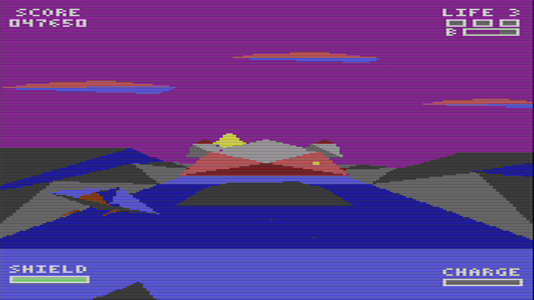
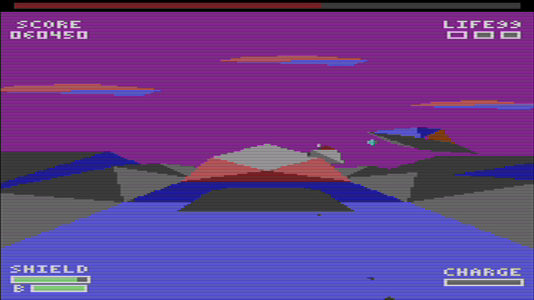
Refresh screenshots and teaser from v0.1.5 hardware footage

diff --git a/docs/hardware.md b/docs/hardware.md
@@ -830,9 +830,23 @@ The bootstrap structure was informed by the neighboring `doomc64u` repository. `
 
 ## Reproduce the README showcase
 
-### Current physical hardware capture (2026-10-24)
+### Current physical hardware capture (2026-10-26)
 
[2 lines of base64/hex data omitted]
+
+All thirteen PNGs use the exact decoded RGB crop `format=rgb24,crop=534:300:53:90:exact=1`, producing 534x300 images with square pixels. The trailer uses the same rectangle and converts it to YUV420p for video encoding. There is no scaling, stretching, retouching, color grading, scanline filtering, interpolation, or gameplay retiming. The 60 fps output preserves the capture cadence and does not claim a 60 fps game renderer. All twelve gallery scenes and the title preview have been replaced.
+
+The reproducible editing recipe and evidence are under `target/readme-hardware-20261026/`: `assemble.py` records source hashes and exact frame intervals in `manifest.json`; `gallery/finalize_gallery.py` records still timestamps, source-frame identifiers, crop verification, and output hashes in `gallery/gallery-selection.json`; and `review/` retains the visual contact sheets. Run these with Python 3 and Pillow, using FFmpeg/FFprobe from `C:/ffmpeg-8.1/bin/`. Generated media remains under `target/`; the selected public PNGs are in `docs/media/`.
+
+The 91.2-second edit retains title (4), Lowland Approach (12), Crystal Cave (12), Iron Canyon (12), Foundry Belt (12), Storm Front (12), complete orbital ascent (10), Asteroid Belt (4), Shattered Moon (4), Space Carrier (4), and title outro (5.2). The source intervals are 20-24, 100-112, 144-156, 274-286, 470-482, 728-740, 1024-1034, 1062-1066, 1140-1144, 1484-1488, and 30-35.2 seconds, respectively. It includes a boss glimpse without a defeat or campaign ending.
+
[1 lines of base64/hex data omitted]
+
+Validation includes independent decoded-pixel checks for every still, source checksums, complete-timeline sampled visual review, full-file video decoding, audio measurements, and MP4 fast-start checks. Both hosted video copies were downloaded anonymously and matched the reviewed file; `published-media.json` retains that evidence. Real-time audiovisual playback remains unverified because no browser was available in this session.
+
+### Historical physical hardware capture (2026-10-24)
+
[1 lines of base64/hex data omitted]
 
 All thirteen PNGs and the video use the fixed FFmpeg crop `crop=534:300:54:90`, producing 534×300 images with square pixels. There is no scaling, stretching, palette substitution, scanline filtering, interpolation, or gameplay retiming. The 60 fps output preserves the recording's cadence and does not claim a 60 fps game renderer. The gallery keeps its twelve scene names and order, plus the title preview.
 

diff --git a/README.md b/README.md
@@ -37,15 +37,15 @@ The four-SID effects engine runs in resident assembly at 50 Hz. Each chip acts a
 
 ## See it in action
 
-**Sound on!** Fly from the lowlands into orbit with a glimpse of the late-game Space Carrier. This **91-second teaser** uses footage recorded on a **physical C64 Ultimate** on October 24, 2026, edited to the complete original recording of **Ashen Wastes**. The capture's black borders are cropped, with its colors, scanlines, proportions, and original gameplay speed preserved. The soundtrack replaces the captured game audio.
+**Sound on!** Fly from the lowlands into orbit with a glimpse of the late-game Space Carrier. This **91-second teaser** shows **H.A.V.O.C. v0.1.5**, recorded on a **physical C64 Ultimate** on October 26, 2026, edited to the complete original recording of **Ashen Wastes**. The capture's black borders are cropped, with its colors, scanlines, proportions, and original gameplay speed preserved. The soundtrack replaces the captured game audio.
 
 <!-- Keep the GitHub attachment URL on its own line for inline video playback. -->
 
-https://github.com/user-attachments/assets/e28c8650-1e2d-4470-9767-cf0c76257224
+https://github.com/user-attachments/assets/3c6046b8-8c42-484b-b490-6f2f3100ec52
 
-[Watch or download the hardware teaser (MP4)](https://github.com/fechols/havoc64u/releases/download/v0.1.4/havoc-teaser-hardware-20261024.mp4).
+[Watch or download the hardware teaser (MP4)](https://github.com/fechols/havoc64u/releases/download/v0.1.5/havoc-teaser-hardware-20261026.mp4).
 
-Screenshots: matching scenes from the **physical C64 Ultimate playthrough recorded October 24, 2026**, with the black capture borders cropped.
+Screenshots: scenes from **H.A.V.O.C. v0.1.5**, captured in the **physical C64 Ultimate playthrough recorded October 26, 2026**, with the black capture borders cropped.
 
 | Lowland Approach | Crystal Cave |
 | --- | --- |
